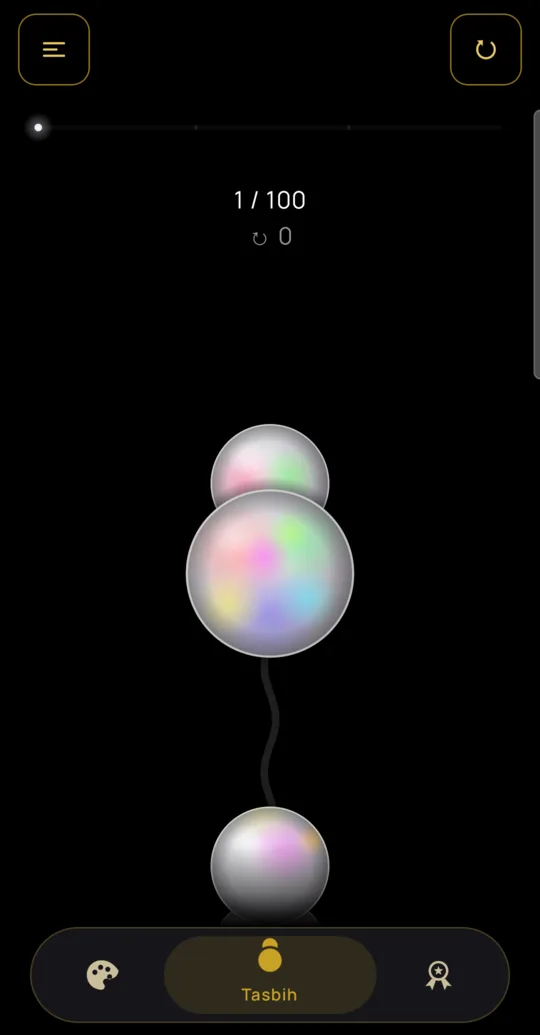
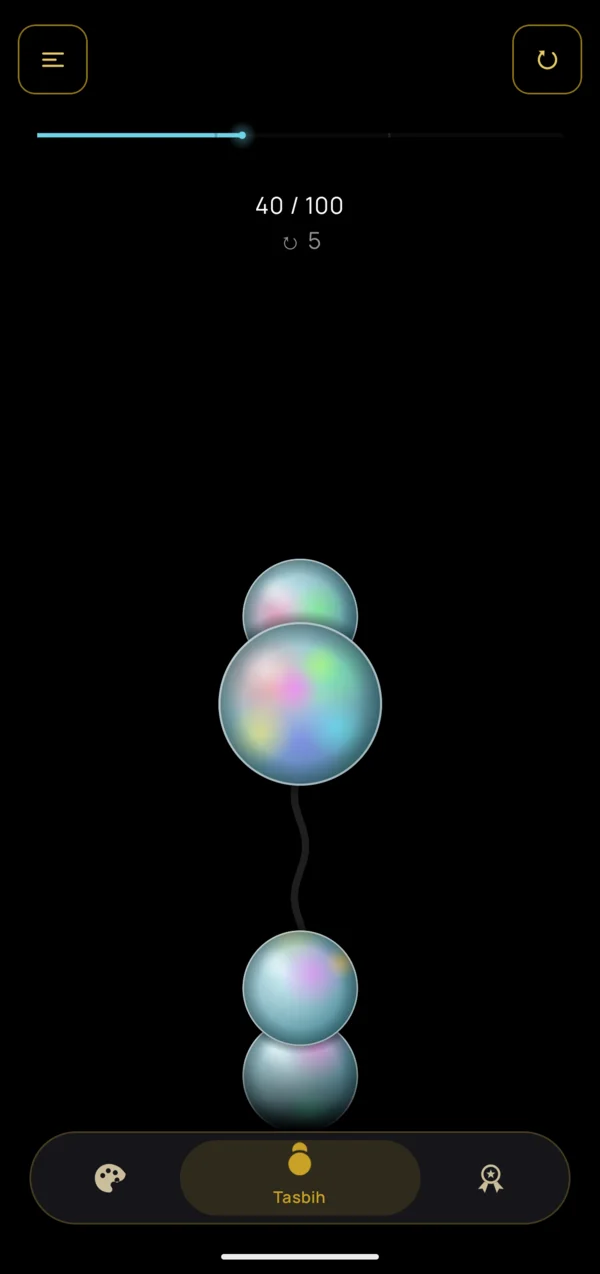
Update Digital Tasbih screenshots and give the phone frames a subtle dark border

diff --git a/styles.css b/styles.css
@@ -198,7 +198,7 @@ p { margin: 0; }
 .products { position: relative; padding: 4vh var(--pad) 18vh; max-width: 1240px; margin: 0 auto; }
 .product {
   position: relative; overflow: hidden; isolation: isolate;
-  display: grid; grid-template-columns: 1fr 1.05fr; align-items: center; gap: 24px;
+  display: grid; grid-template-columns: .85fr 1.3fr; align-items: center; gap: 16px;
   padding: clamp(32px, 6vw, 72px);
   background: #08080a; color: #f4f1ea;
   border: 1px solid var(--ink);
@@ -231,12 +231,12 @@ a.store:hover { transform: translate(-3px, -3px); box-shadow: 4px 4px 0 var(--go
 .store.soon b { color: #d0d0d4; }
 
 .product-shots { position: relative; display: flex; justify-content: center; align-items: center; gap: 14px; min-height: 480px; }
-.shot { flex: 1 1 0; max-width: 230px; }
-.shot.s2 { margin-top: -6%; max-width: 250px; z-index: 2; }
+.shot { flex: 1 1 0; max-width: 270px; }
+.shot.s2 { margin-top: -6%; max-width: 300px; z-index: 2; }
 .shot.s3 { margin-top: 8%; }
 .device {
-  border-radius: 20px; overflow: hidden;
-  border: 1px solid rgba(255, 255, 255, .16);
+  border-radius: 24px; overflow: hidden;
+  border: 4px solid #25252a;
   box-shadow: 0 30px 70px rgba(0, 0, 0, .55);
   background: #000;
 }
@@ -277,7 +277,7 @@ a.store:hover { transform: translate(-3px, -3px); box-shadow: 4px 4px 0 var(--go
   .card { min-height: 0; }
   .product { grid-template-columns: 1fr; }
   .product-shots { min-height: 0; margin-top: 24px; gap: 8px; }
-  .device { border-radius: 14px; }
+  .device { border-radius: 18px; border-width: 3px; }
   .cue { display: none; }
 }
 

diff --git a/index.html b/index.html
@@ -119,9 +119,9 @@
           </div>
         </div>
         <div class="product-shots">
-          <div class="shot s1"><div class="shot-par" data-speed=".14" data-rot="-3"><div class="device"><img src="assets/img/tasbih-themes.webp" width="540" height="1035" loading="lazy" alt="Digital Tasbih theme picker"></div></div></div>
-          <div class="shot s2"><div class="shot-par" data-speed="-.06"><div class="device"><img src="assets/img/tasbih-counter.webp" width="540" height="1035" loading="lazy" alt="Digital Tasbih counting screen"></div></div></div>
-          <div class="shot s3"><div class="shot-par" data-speed=".22" data-rot="3"><div class="device"><img src="assets/img/tasbih-preview.webp" width="540" height="1035" loading="lazy" alt="Digital Tasbih Deep Sea theme preview"></div></div></div>
+          <div class="shot s1"><div class="shot-par" data-speed=".14" data-rot="-3"><div class="device"><img src="assets/img/tasbih-themes.webp" width="600" height="1274" loading="lazy" alt="Digital Tasbih theme picker"></div></div></div>
+          <div class="shot s2"><div class="shot-par" data-speed="-.06"><div class="device"><img src="assets/img/tasbih-counter.webp" width="600" height="1274" loading="lazy" alt="Digital Tasbih counting screen"></div></div></div>
+          <div class="shot s3"><div class="shot-par" data-speed=".22" data-rot="3"><div class="device"><img src="assets/img/tasbih-achievements.webp" width="600" height="1274" loading="lazy" alt="Digital Tasbih achievements and badges"></div></div></div>
         </div>
       </article>
     </section>
